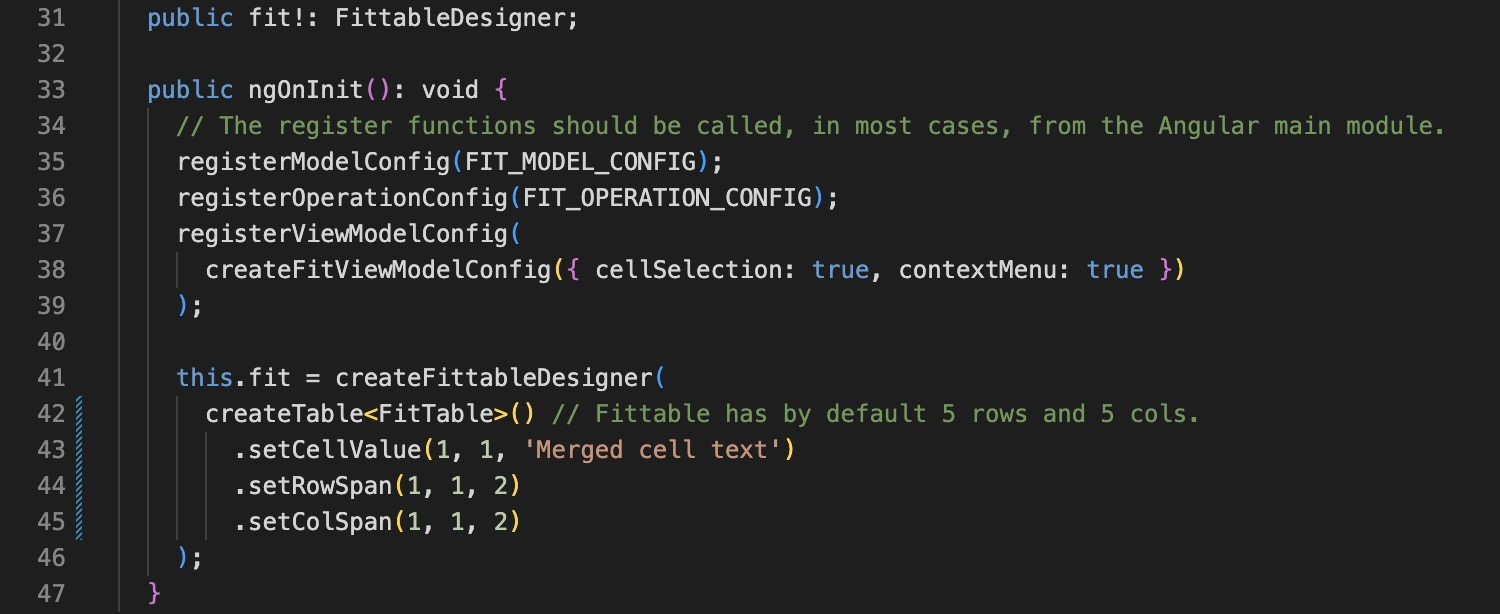
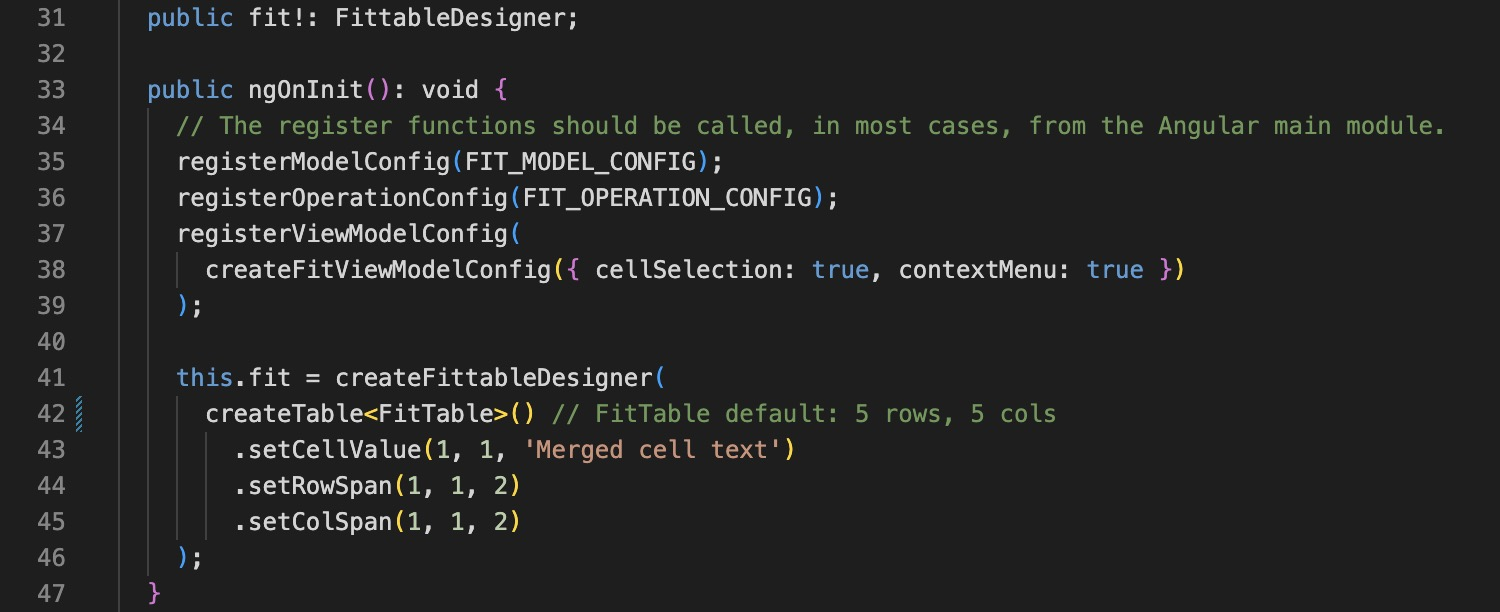
Create user docs app

diff --git a/angular-app/ngx-fittable-docs/src/app/topics/table-operations/update-style.component.ts b/angular-app/ngx-fittable-docs/src/app/topics/table-operations/update-style.component.ts
@@ -55,7 +55,7 @@ export class UpdateStyleComponent
       createFitViewModelConfig({ rowHeader: true, colHeader: true })
     );
 
-    this.fit = createFittableDesigner(createTable());
+    this.fit = createFittableDesigner(createTable()); // FitTable default: 5 rows, 5 cols
     const afterRun$: Subject<Operation> = new Subject();
     this.subscription = afterRun$.subscribe((operation: Operation): void => {
       this.consoleText += 'Operation id: ' + operation.id + '\n';

diff --git a/angular-app/ngx-fittable-docs/src/app/topics/table-operations/cell-values.component.ts b/angular-app/ngx-fittable-docs/src/app/topics/table-operations/cell-values.component.ts
@@ -54,7 +54,7 @@ export class CellValuesComponent
       createFitViewModelConfig({ rowHeader: true, colHeader: true })
     );
 
-    this.fit = createFittableDesigner(createTable());
+    this.fit = createFittableDesigner(createTable()); // FitTable default: 5 rows, 5 cols
     const afterRun$: Subject<Operation> = new Subject();
     this.subscription = afterRun$.subscribe((operation: Operation): void => {
       this.consoleText += 'Operation id: ' + operation.id + '\n';

diff --git a/angular-app/ngx-fittable-docs/src/app/topics/table-operations/merge-cells.component.ts b/angular-app/ngx-fittable-docs/src/app/topics/table-operations/merge-cells.component.ts
@@ -54,7 +54,7 @@ export class MergeCellsComponent
       createFitViewModelConfig({ rowHeader: true, colHeader: true })
     );
 
-    this.fit = createFittableDesigner(createTable());
+    this.fit = createFittableDesigner(createTable()); // FitTable default: 5 rows, 5 cols
     const afterRun$: Subject<Operation> = new Subject();
     this.subscription = afterRun$.subscribe((operation: Operation): void => {
       this.consoleText += 'Operation id: ' + operation.id + '\n';

diff --git a/angular-app/ngx-fittable-docs/src/app/topics/table-operations/resize-cols.component.ts b/angular-app/ngx-fittable-docs/src/app/topics/table-operations/resize-cols.component.ts
@@ -53,7 +53,7 @@ export class ResizeColsComponent
       createFitViewModelConfig({ rowHeader: true, colHeader: true })
     );
 
-    this.fit = createFittableDesigner(createTable());
+    this.fit = createFittableDesigner(createTable()); // FitTable default: 5 rows, 5 cols
     const afterRun$: Subject<Operation> = new Subject();
     this.subscription = afterRun$.subscribe((operation: Operation): void => {
       this.consoleText += 'Operation id: ' + operation.id + '\n';

diff --git a/angular-app/ngx-fittable-docs/src/app/topics/table-operations/resize-rows.component.ts b/angular-app/ngx-fittable-docs/src/app/topics/table-operations/resize-rows.component.ts
@@ -53,7 +53,7 @@ export class ResizeRowsComponent
       createFitViewModelConfig({ rowHeader: true, colHeader: true })
     );
 
-    this.fit = createFittableDesigner(createTable());
+    this.fit = createFittableDesigner(createTable()); // FitTable default: 5 rows, 5 cols
     const afterRun$: Subject<Operation> = new Subject();
     this.subscription = afterRun$.subscribe((operation: Operation): void => {
       this.consoleText += 'Operation id: ' + operation.id + '\n';

diff --git a/angular-app/ngx-fittable-docs/src/app/topics/table-designer/theme-switcher.component.ts b/angular-app/ngx-fittable-docs/src/app/topics/table-designer/theme-switcher.component.ts
@@ -53,7 +53,7 @@ export class ThemeSwitcherComponent implements ConsoleTopic, OnInit {
     registerOperationConfig(FIT_OPERATION_CONFIG);
     registerViewModelConfig(FIT_VIEW_MODEL_CONFIG);
 
-    const table: Table = createTable();
+    const table: Table = createTable(); // FitTable default: 5 rows, 5 cols
     table.forEachCell((rowId: number, colId: number): void => {
       table.setCellValue(rowId, colId, '[' + rowId + ',' + colId + ']');
     });

diff --git a/angular-app/ngx-fittable-docs/src/app/topics/table-operations/custom-operation.component.ts b/angular-app/ngx-fittable-docs/src/app/topics/table-operations/custom-operation.component.ts
@@ -59,7 +59,7 @@ export class CustomOperationComponent extends ConsoleTopic implements OnInit {
       createFitViewModelConfig({ rowHeader: true, colHeader: true })
     );
 
-    this.fit = createFittableDesigner(createTable());
+    this.fit = createFittableDesigner(createTable()); // FitTable default: 5 rows, 5 cols
 
     this.fit.operationExecutor
       ?.bindOperationStepFactory('dummy-step', DummyOperationStepFactory)

diff --git a/angular-app/ngx-fittable-docs/src/app/topics/table-designer/custom-view-model.component.ts b/angular-app/ngx-fittable-docs/src/app/topics/table-designer/custom-view-model.component.ts
@@ -44,7 +44,7 @@ export class CustomViewModelComponent implements SimpleTopic, OnInit {
     viewModelConfig.contextMenuFactory = this.createDummyContextMenuFactory();
     registerViewModelConfig(viewModelConfig);
 
-    this.fit = createFittableDesigner(createTable());
+    this.fit = createFittableDesigner(createTable()); // FitTable default: 5 rows, 5 cols
   }
 
   private createDummyToolbarFactory(): ToolbarFactory {

diff --git a/angular-app/ngx-fittable-docs/src/app/topics/table-operations/insert-cols-right.component.ts b/angular-app/ngx-fittable-docs/src/app/topics/table-operations/insert-cols-right.component.ts
@@ -54,7 +54,7 @@ export class InsertColsRightComponent
       createFitViewModelConfig({ rowHeader: true, colHeader: true })
     );
 
-    const table: Table = createTable();
+    const table: Table = createTable(); // FitTable default: 5 rows, 5 cols
     table.forEachCell((rowId: number, colId: number): void => {
       table.setCellValue(rowId, colId, '[' + rowId + ',' + colId + ']');
     });

diff --git a/angular-app/ngx-fittable-docs/src/app/topics/table-operations/insert-rows-above.component.ts b/angular-app/ngx-fittable-docs/src/app/topics/table-operations/insert-rows-above.component.ts
@@ -54,7 +54,7 @@ export class InsertRowsAboveComponent
       createFitViewModelConfig({ rowHeader: true, colHeader: true })
     );
 
-    const table: Table = createTable();
+    const table: Table = createTable(); // FitTable default: 5 rows, 5 cols
     table.forEachCell((rowId: number, colId: number): void => {
       table.setCellValue(rowId, colId, '[' + rowId + ',' + colId + ']');
     });

diff --git a/angular-app/ngx-fittable-docs/src/app/topics/table-operations/insert-rows-below.component.ts b/angular-app/ngx-fittable-docs/src/app/topics/table-operations/insert-rows-below.component.ts
@@ -54,7 +54,7 @@ export class InsertRowsBelowComponent
       createFitViewModelConfig({ rowHeader: true, colHeader: true })
     );
 
-    const table: Table = createTable();
+    const table: Table = createTable(); // FitTable default: 5 rows, 5 cols
     table.forEachCell((rowId: number, colId: number): void => {
       table.setCellValue(rowId, colId, '[' + rowId + ',' + colId + ']');
     });

diff --git a/angular-app/ngx-fittable-docs/src/app/topics/table-operations/insert-cols-left.component.ts b/angular-app/ngx-fittable-docs/src/app/topics/table-operations/insert-cols-left.component.ts
@@ -54,7 +54,7 @@ export class InsertColsLeftComponent
       createFitViewModelConfig({ rowHeader: true, colHeader: true })
     );
 
-    const table: Table = createTable();
+    const table: Table = createTable(); // FitTable default: 5 rows, 5 cols
     table.forEachCell((rowId: number, colId: number): void => {
       table.setCellValue(rowId, colId, '[' + rowId + ',' + colId + ']');
     });
